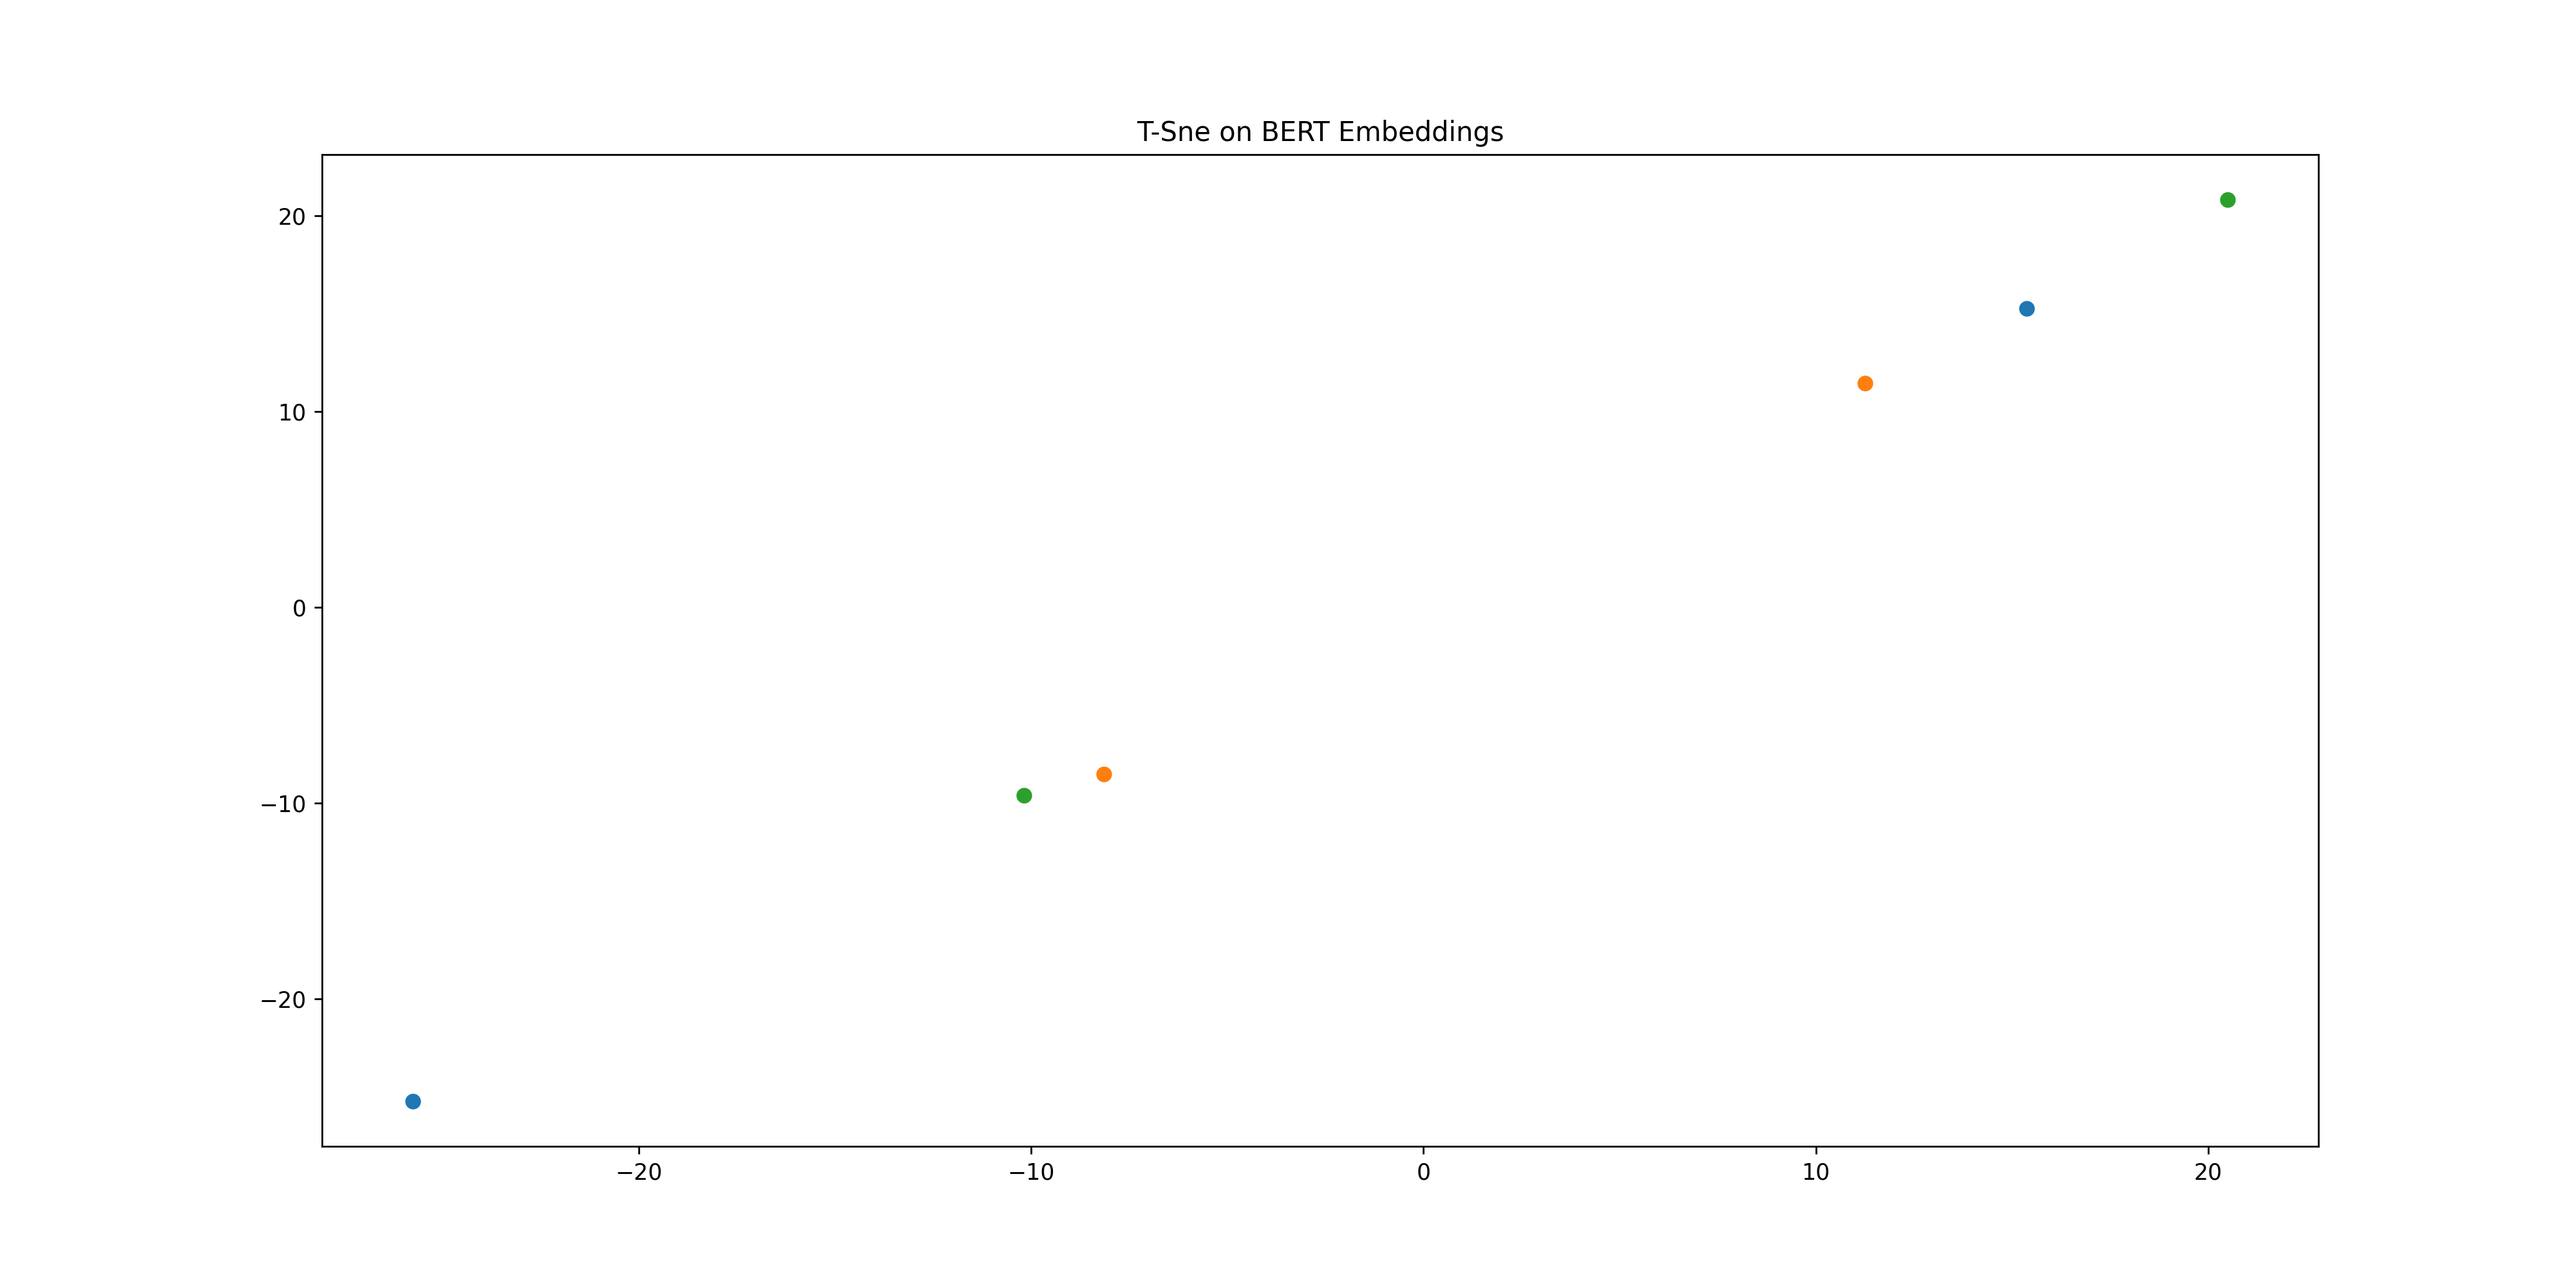
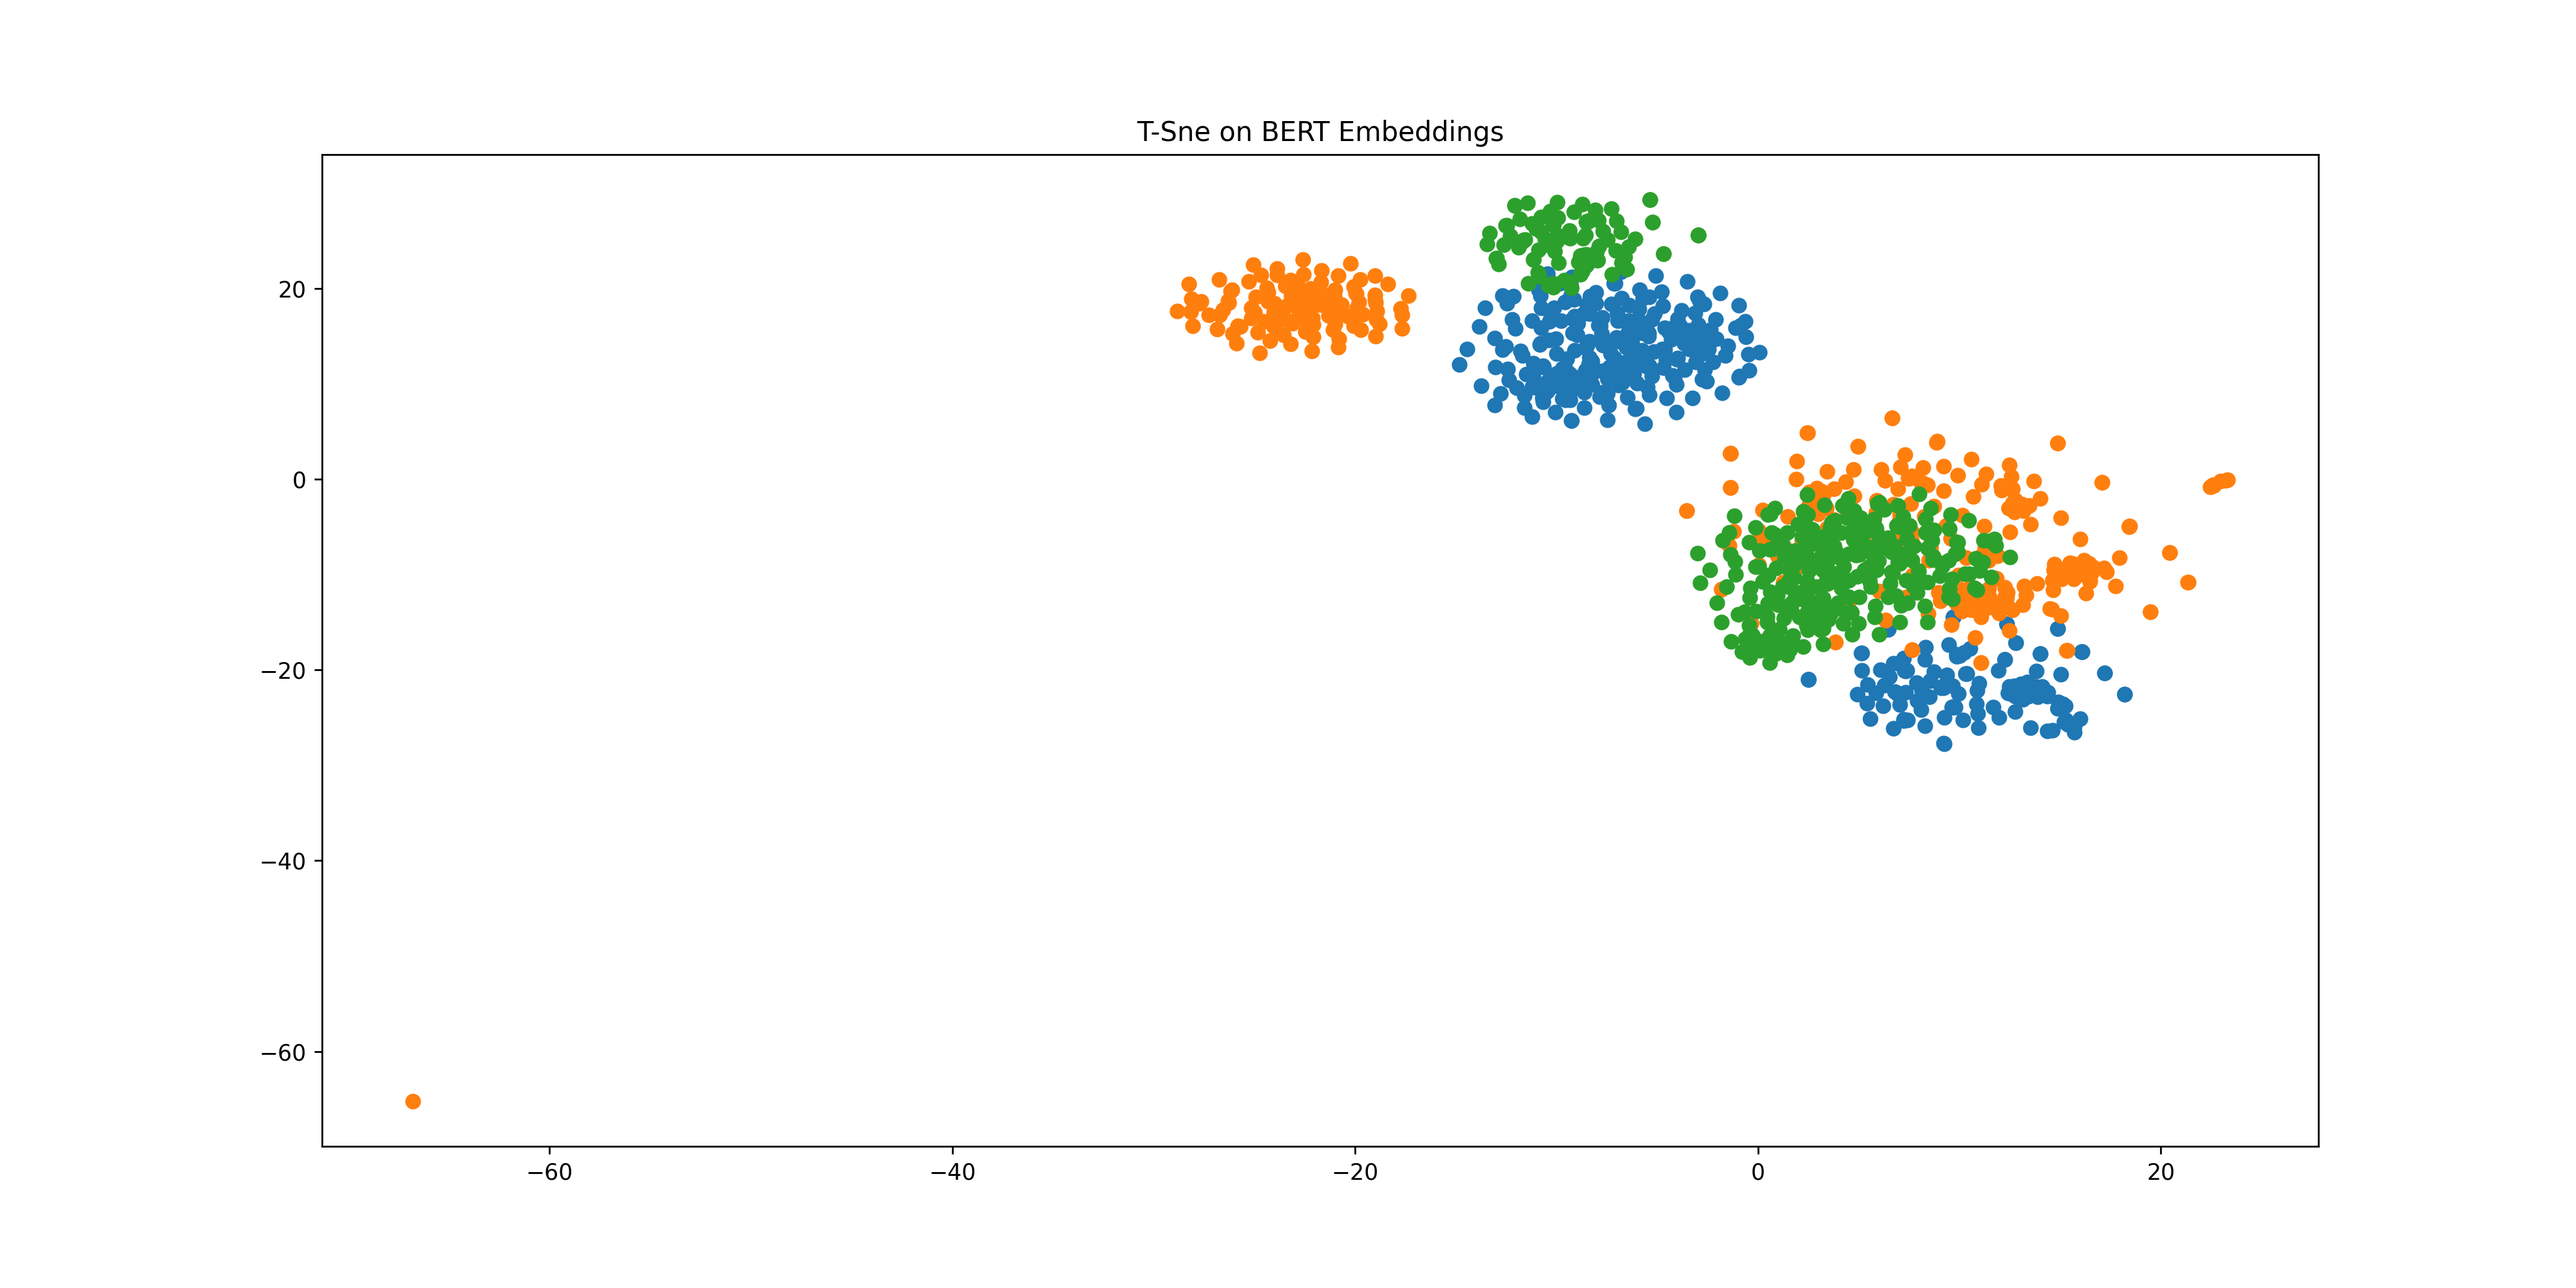
embedding scatter fixed

Changed region(s): [[0.6562, 0.341, 0.8438, 0.589], [0.4375, 0.155, 0.6875, 0.341], [0.8438, 0.372, 0.875, 0.403]]

diff --git a/utils/embeddings.py b/utils/embeddings.py
@@ -39,7 +39,8 @@ def emb_visualizer(model, dataset, tokenizer, args):
             input_embs = model.bert_enc.embeddings(input_ids=input_ids).cpu()
             bert_embs = model.bert_enc.get_input_embeddings()
             X_embedded = TSNE(n_components=2).fit_transform(input_embs[0])
-            plt.scatter(X_embedded[0], X_embedded[1])
+            print(X_embedded.shape)
+            plt.scatter(X_embedded[:, 0], X_embedded[:, 1])
         i += 1
         if i == 3:
             break
